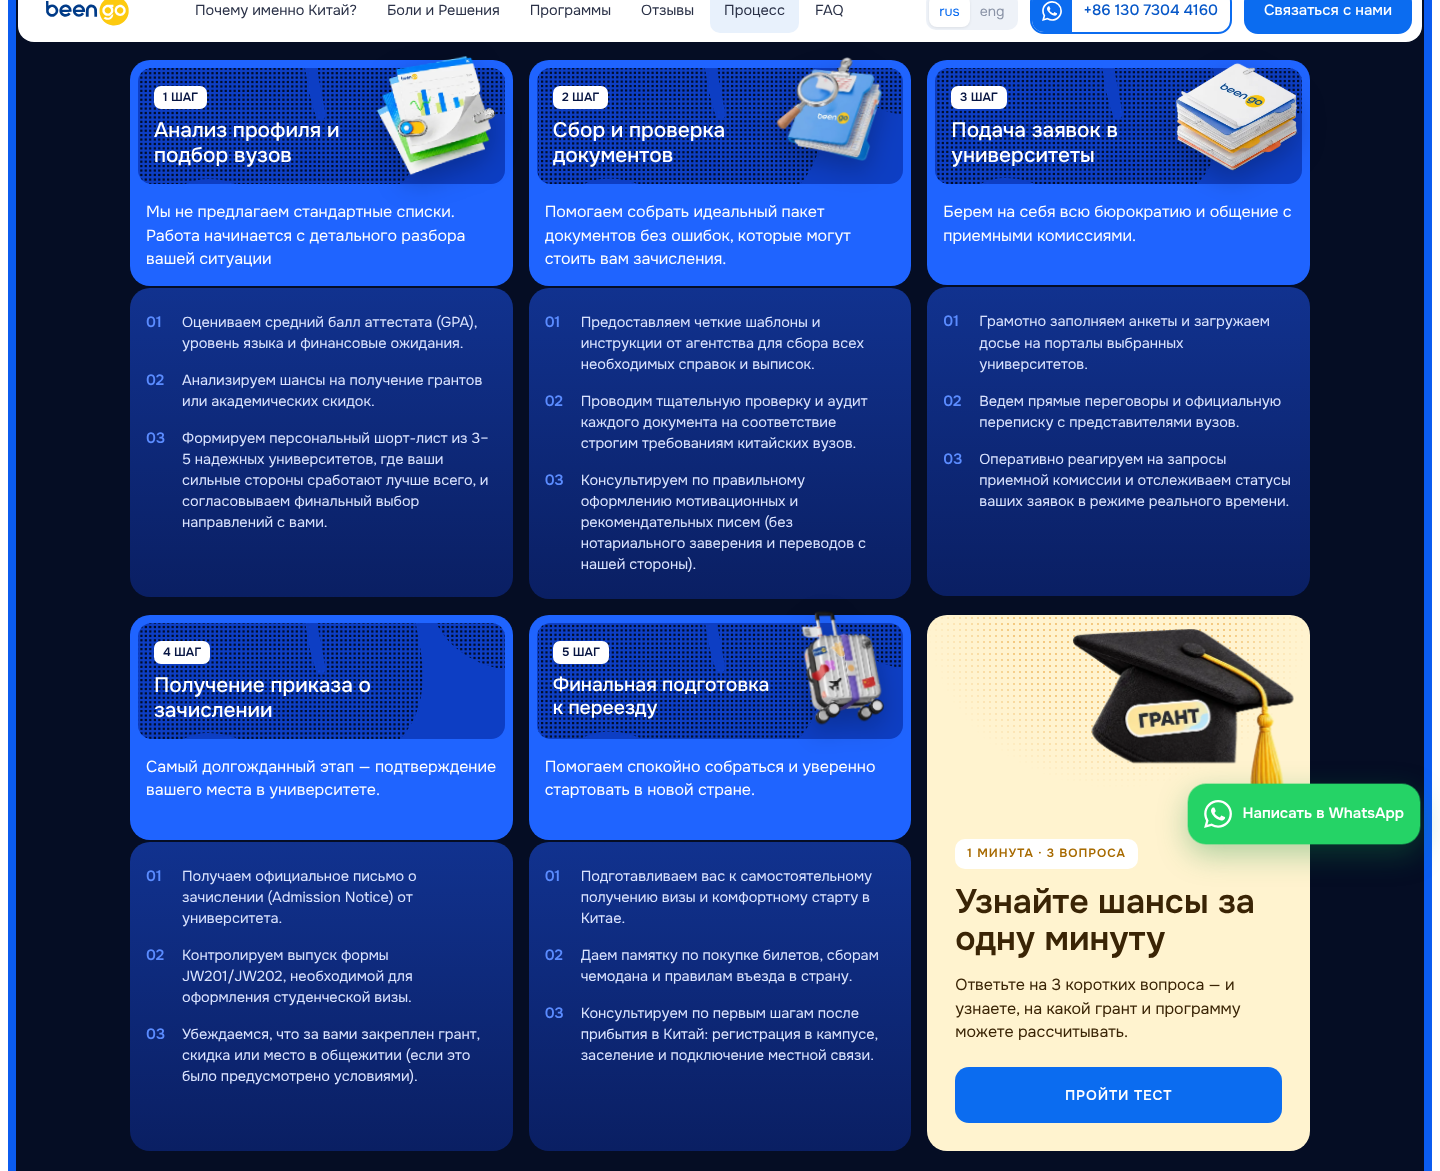
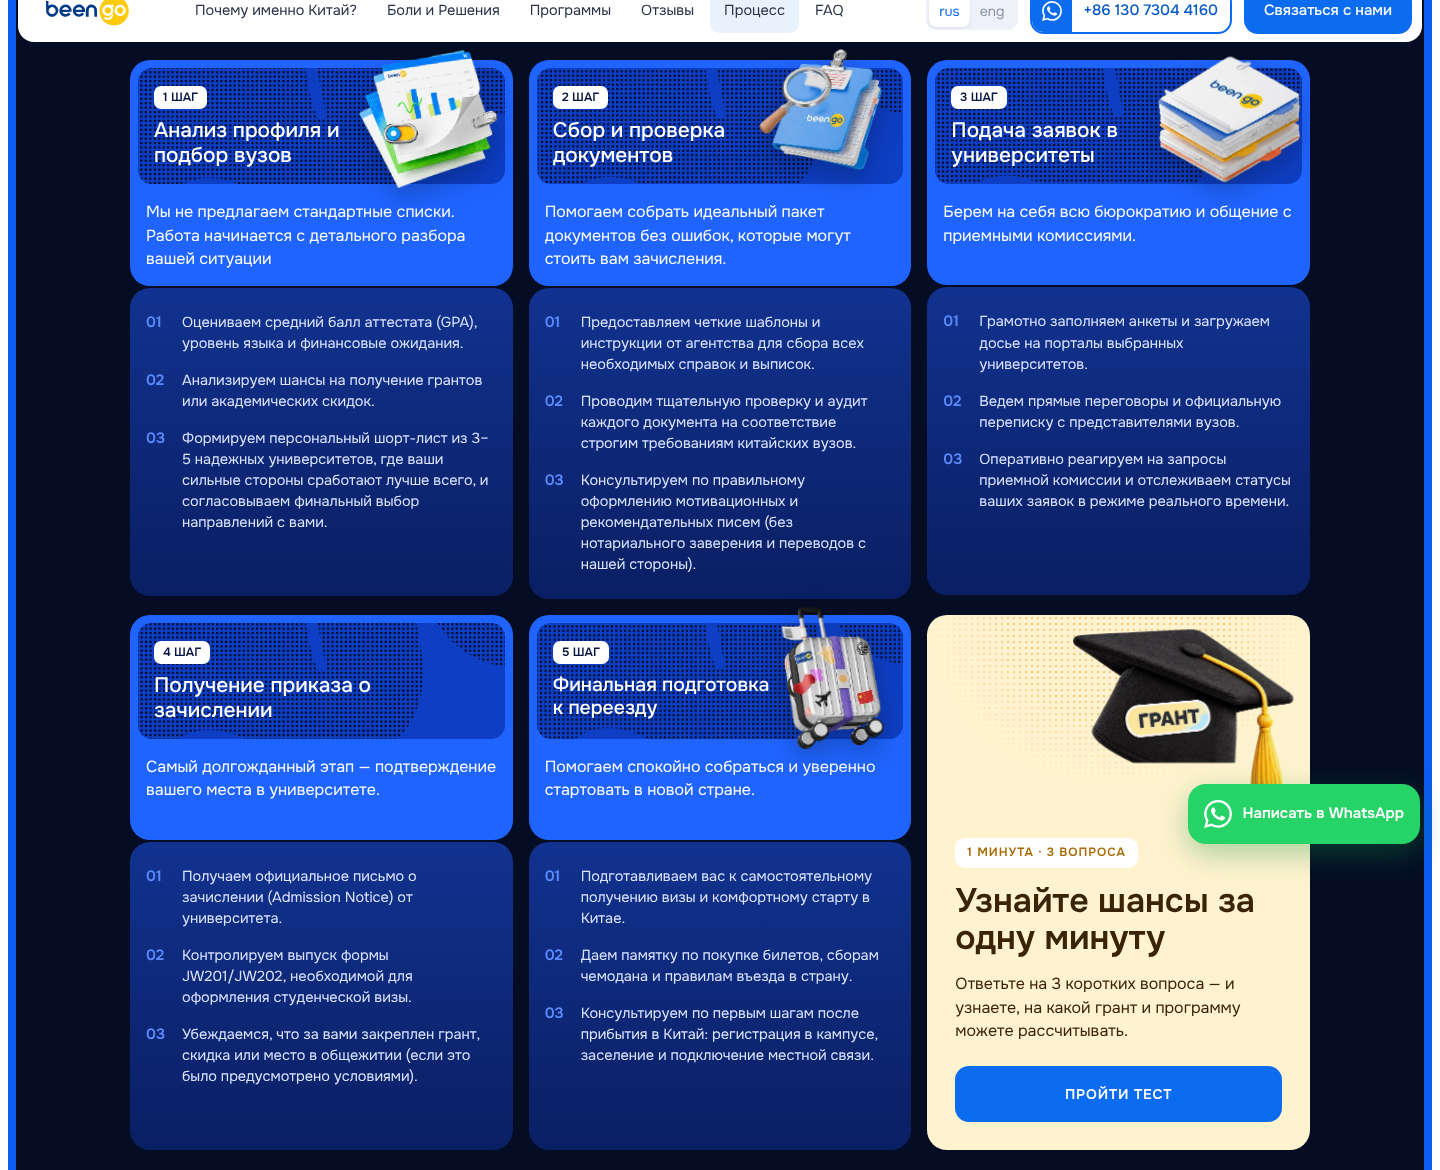
Steps: larger illustrations, keep titles on two lines
Claude-Session: https://claude.ai/code/session_01DveQThDXrjAqWsCdBVYsEN

diff --git a/index.html b/index.html
@@ -2283,6 +2283,13 @@ html,body{overflow-x:clip!important}
 .cta-card p{font-size:16px!important;line-height:1.45;z-index:2}
 .cta-badge{z-index:2}
 @media (max-width:680px){.cta-ill{width:48%;top:16px}.cta-card{min-height:420px!important}}
+
+/* шаги: картинки крупнее, чемодан крупнее */
+.step-head img{width:clamp(124px,11.5vw,164px)!important;top:-22px!important;right:-4px!important}
+.step:nth-child(5) .step-head img.st5{width:clamp(108px,9.5vw,140px)!important;top:-26px!important;right:0!important}
+.step-head h3{max-width:56%!important}
+@media (max-width:680px){.step-head img{width:136px!important;top:-18px!important}.step:nth-child(5) .step-head img.st5{width:118px!important;top:-22px!important}}
+.step:nth-child(4) .step-head h3{max-width:100%!important}.step:nth-child(5) .step-head h3{max-width:66%!important}
 </style>
 </head>
 <body>
